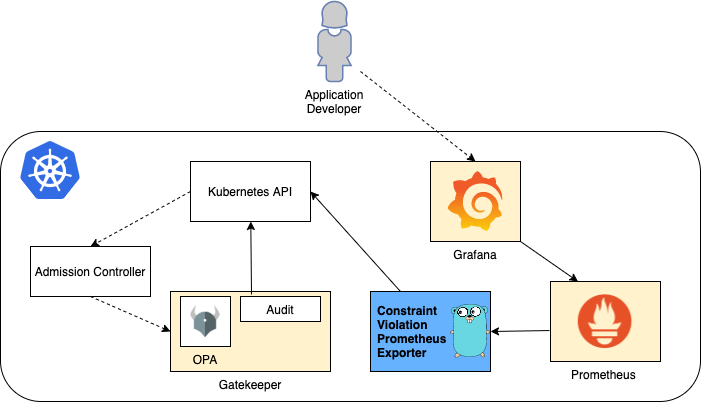
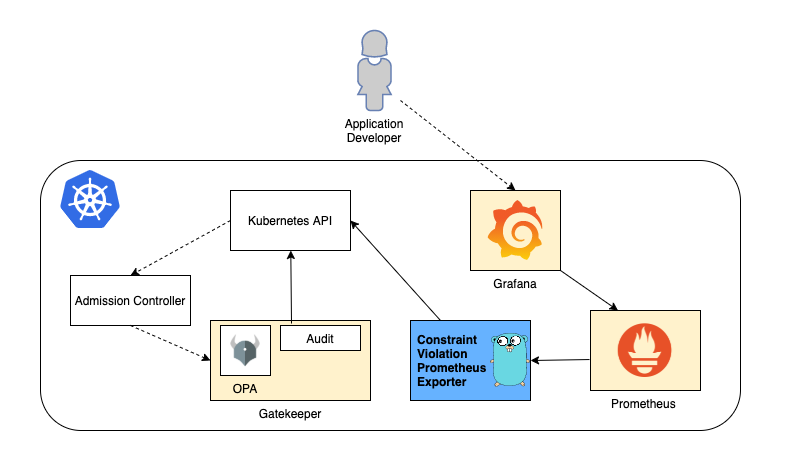
change system diagram and add an explanation about system design

diff --git a/README.md b/README.md
@@ -26,7 +26,11 @@ If you want to read more about enforcing policies in Kubernetes, check out [this
 
 ## Design
 
-!TODO Diagram
+![System design](system_logical.png) 
+
+The goal of the system we put togehter is to provide insights to developers and platform users insights about OPA constraints that their application might be violating in a given namespace. We use Grafana for creating an example dashboard. Grafana fetches data it needs for creating the dashboard from Prometheus. We've written a small Go program - depicted as 'Constraint Violation Prometheus Exporter' in the diagram above - to query the Kubernetes API for constraint violations and expose data in Prometheus format.
+Gatekeeper/OPA is used in [Audit](https://open-policy-agent.github.io/gatekeeper/website/docs/audit) mode for our setup, we don't leverage Gatekeeper's capability to allow/deny K8S resources. 
+
 
 ### OPA Constraints
 
@@ -57,7 +61,10 @@ opa_scorecard_constraint_violations{kind="K8sAllowedRepos",name="repo-is-openpol
 
 Labels are used to represent each constraint violation and we will be using these labels later in the Grafana dashboard.
 
+
 The Prometheus exporter program listens on tcp port ```9141``` by default and exposes metrics on path ```/metrics```. It can run locally on your development box as long as you have a valid Kubernetes configuration in your home folder (i.e. if you can run kubectl and have the right permissions). When running on the cluster a ```incluster``` parameter is passed in so that it knows where to look up for the cluster credentials. Exporter program connects to Kubernetes API every 10 seconds to scrape data from Kubernetes API.
+
+We've used [this](https://medium.com/teamzerolabs/15-steps-to-write-an-application-prometheus-exporter-in-go-9746b4520e26) blog post as the base for the code.
 
 ## Demo
 
